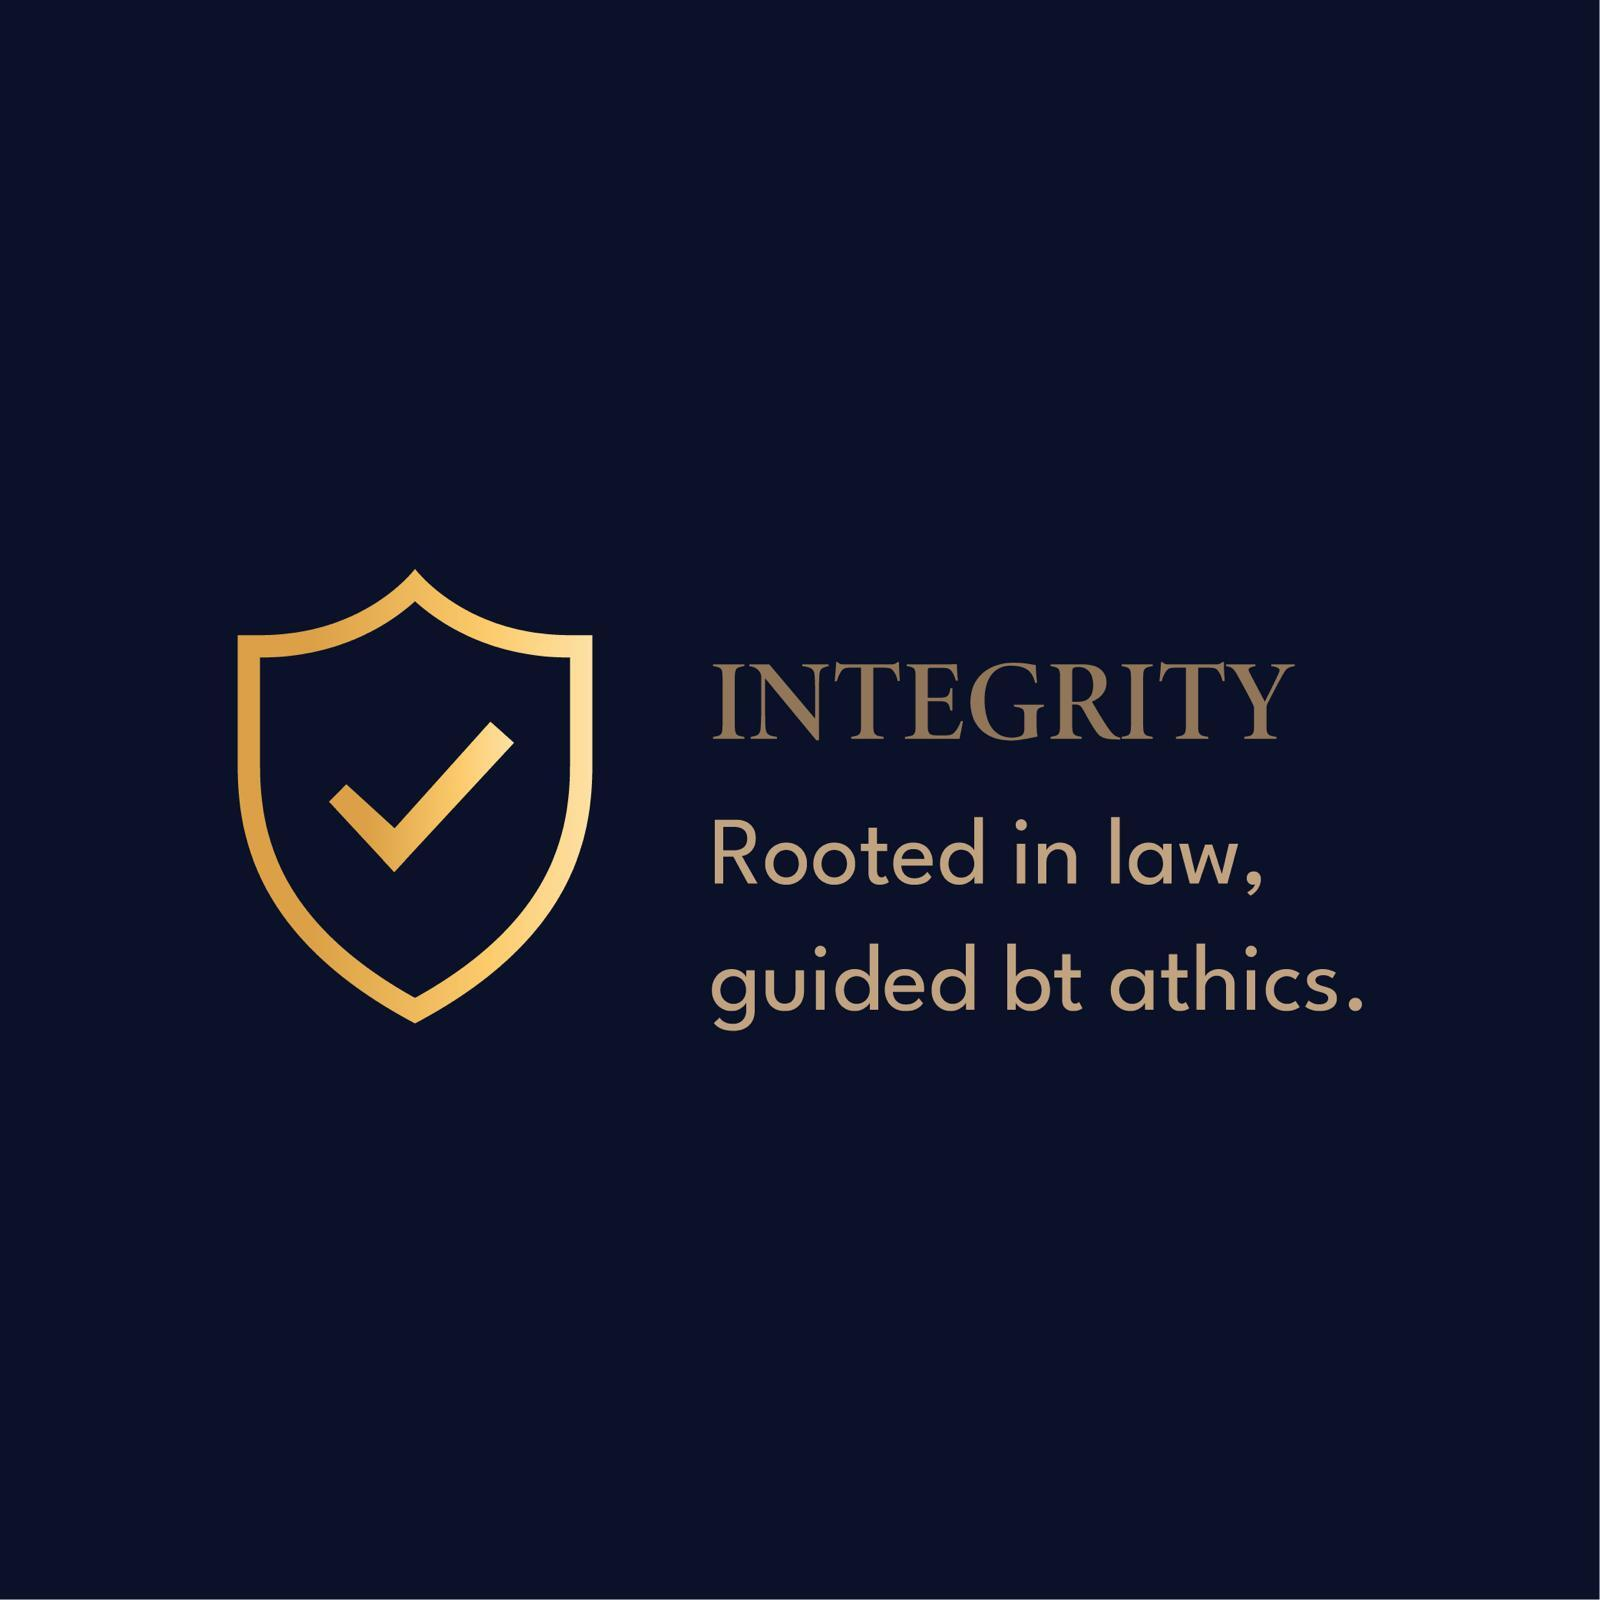
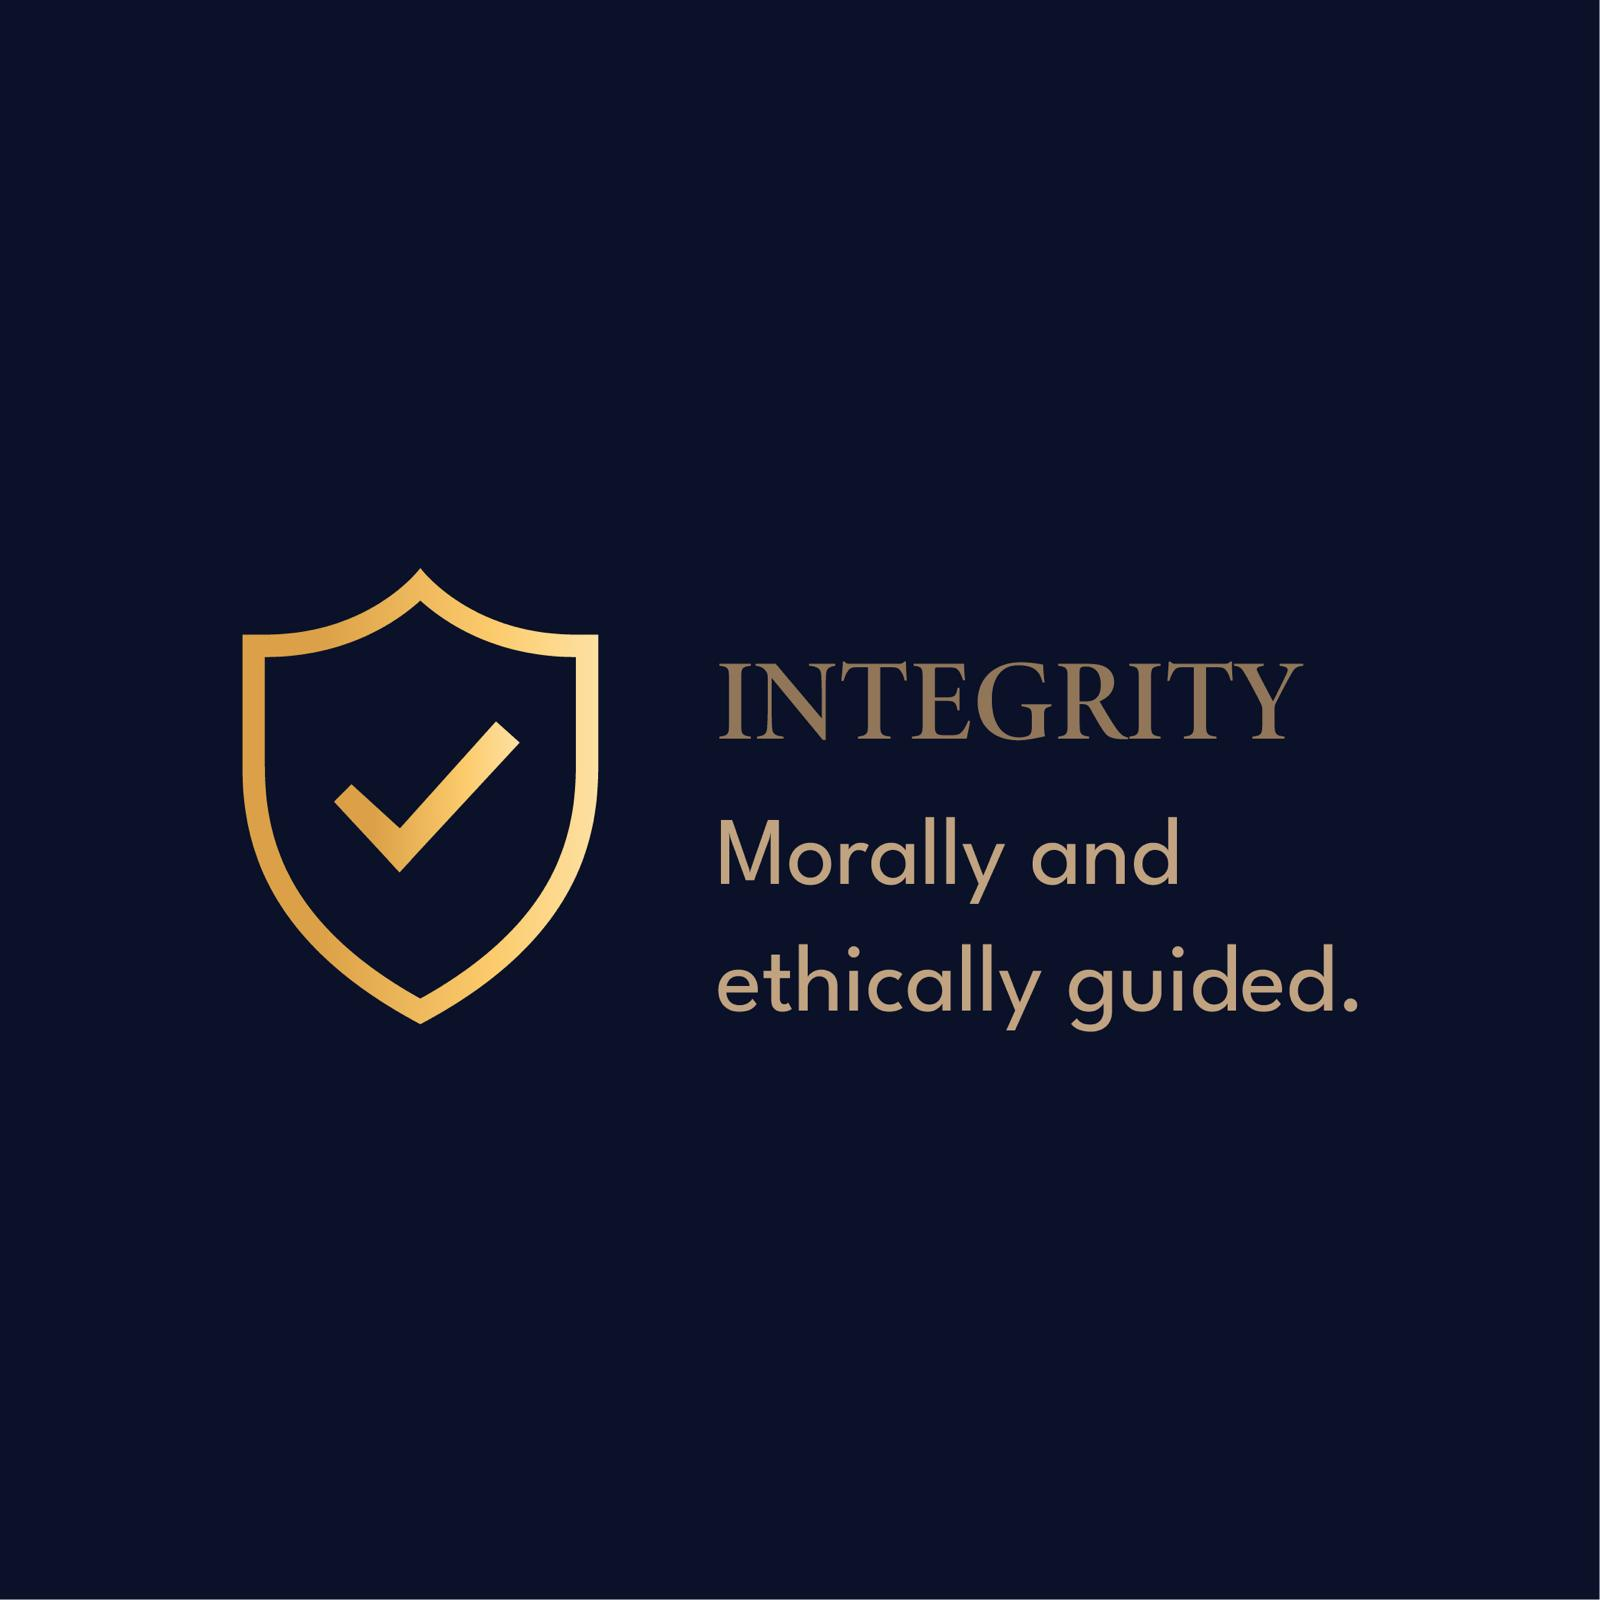
implement SiteFooter component with value branding assets and legal links

diff --git a/src/components/SiteFooter.tsx b/src/components/SiteFooter.tsx
@@ -3,33 +3,34 @@
 import React from "react";
 import Image from "next/image";
 import Link from "next/link";
-import { HeartHandshake } from "lucide-react";
 
-import integrityImg from "@/assets/open/integrity.png";
-import compassionImg from "@/assets/open/compassion.png";
-import purposeImg from "@/assets/open/purpose.png";
-import trustImg from "@/assets/open/trust.png";
+import integrityImg from "@/assets/open/integrity.jpeg";
+import compassionImg from "@/assets/open/compassion.jpeg";
+import purposeImg from "@/assets/open/purpose.jpeg";
+import trustImg from "@/assets/open/trust.jpeg";
 
+/* Artwork is square with the icon + wording sitting in a centred horizontal
+   band, so each tile crops the empty top/bottom rather than letterboxing it. */
 const values = [
   {
-    title: "INTEGRITY",
-    text: "Rooted in law,\nguided by ethics.",
-    icon: integrityImg,
+    title: "Integrity",
+    alt: "Integrity — morally and ethically guided",
+    image: integrityImg,
   },
   {
-    title: "COMPASSION",
-    text: "A duty to care,\na promise to serve.",
-    icon: compassionImg,
+    title: "Compassion",
+    alt: "Compassion — a duty to care, a promise to serve",
+    image: compassionImg,
   },
   {
-    title: "PURPOSE",
-    text: "Care with meaning,\nimpact that lasts.",
-    icon: purposeImg,
+    title: "Purpose",
+    alt: "Purpose — care with meaning, impact that lasts",
+    image: purposeImg,
   },
   {
-    title: "TRUST",
-    text: "Built on honesty,\nstrengthened by reliability.",
-    icon: trustImg,
+    title: "Trust",
+    alt: "Trust — built on honesty, strengthened by reliability",
+    image: trustImg,
   },
 ];
 
@@ -46,25 +47,25 @@ function SiteFooter() {
       />
 
       {/* ── Values Row ─────────────────────────────────────────────────── */}
-      <div className="container-wrapper mb-8 sm:mb-10 pt-8">
-        <div className="grid grid-cols-2 md:grid-cols-4 gap-2 sm:gap-4 md:gap-6">
-          {values.map((val, idx) => (
-              <div key={idx} className="relative w-full h-[150px] sm:h-[200px] mx-auto flex items-center justify-center">
-                {val.icon ? (
-                  <Image
-                    src={val.icon}
-                    alt={`${val.title} image`}
-                    fill
-                    quality={100}
-                    unoptimized={true}
-                    className="object-contain object-center scale-110 sm:scale-125"
-                  />
-                ) : (
-                  <div className="flex items-center justify-center">
-                    <HeartHandshake className="w-10 h-10 text-gold-DEFAULT" />
-                  </div>
-                )}
-              </div>
+      <div className="container-wrapper mb-6 sm:mb-8 pt-6 sm:pt-8">
+        {/* Width is capped per breakpoint so the tiles stay modest on wide
+            screens — the wording is part of the artwork, so tile width is the
+            only thing controlling how large it reads. */}
+        <div className="mx-auto grid max-w-[18rem] grid-cols-1 gap-2.5 sm:max-w-xl sm:grid-cols-2 sm:gap-4 lg:max-w-6xl lg:grid-cols-4">
+          {values.map((val) => (
+            <div
+              key={val.title}
+              className="group relative w-full aspect-[7/3] overflow-hidden rounded-lg sm:rounded-xl ring-1 ring-gold-400/10 transition-all duration-300 hover:ring-gold-400/25"
+            >
+              <Image
+                src={val.image}
+                alt={val.alt}
+                fill
+                quality={90}
+                sizes="(min-width: 1024px) 280px, (min-width: 640px) 290px, 288px"
+                className="object-cover object-center transition-transform duration-500 group-hover:scale-[1.04]"
+              />
+            </div>
           ))}
         </div>
       </div>
@@ -131,22 +132,29 @@ function SiteFooter() {
           </button>
         </div>
 
-        {/* Copyright | Disclaimer | Registration — all one row */}
-        <div className="flex flex-col sm:flex-row items-center justify-between w-full gap-2 sm:gap-4">
+        {/* Copyright | Disclaimer | Registration — stacked until there is
+            genuinely room for three columns. Only the two short lines may
+            hold nowrap; the disclaimer always wraps. */}
+        <div className="flex flex-col xl:flex-row items-center xl:justify-between w-full gap-2 xl:gap-6 text-center xl:text-left">
           {/* Copyright */}
-          <p className="text-[10px] sm:text-[11px] text-gold-100/38 font-light whitespace-nowrap">
-            <span className="text-[9px] sm:text-[10px] text-gold-200/22 uppercase tracking-[0.14em] font-medium mr-1.5">Copyright</span>
+          <p className="text-[10px] sm:text-[11px] text-gold-100/38 font-light xl:whitespace-nowrap">
+            <span className="text-[9px] sm:text-[10px] text-gold-200/22 uppercase tracking-[0.14em] font-medium mr-1.5">
+              Copyright
+            </span>
             &copy; Grace &amp; Goodwill Ltd 2026. All rights reserved.
           </p>
 
           {/* Disclaimer — centre */}
-          <p className="text-[10px] sm:text-[11px] text-gold-100/30 font-light whitespace-nowrap text-center">
-            Grace &amp; Goodwill is an introductory agency for independent live-in carers and does not provide regulated care services.
+          <p className="max-w-prose xl:max-w-none text-[10px] sm:text-[11px] text-gold-100/30 font-light text-balance text-center">
+            Grace &amp; Goodwill is an introductory agency for independent
+            live-in carers and does not provide regulated care services.
           </p>
 
           {/* Registration */}
-          <p className="text-[10px] sm:text-[11px] text-gold-100/38 font-light whitespace-nowrap">
-            <span className="text-[9px] sm:text-[10px] text-gold-200/22 uppercase tracking-[0.14em] font-medium mr-1.5">Company Registration</span>
+          <p className="text-[10px] sm:text-[11px] text-gold-100/38 font-light xl:whitespace-nowrap xl:text-right">
+            <span className="text-[9px] sm:text-[10px] text-gold-200/22 uppercase tracking-[0.14em] font-medium mr-1.5">
+              Company Registration
+            </span>
             Company No. 16011465
           </p>
         </div>
